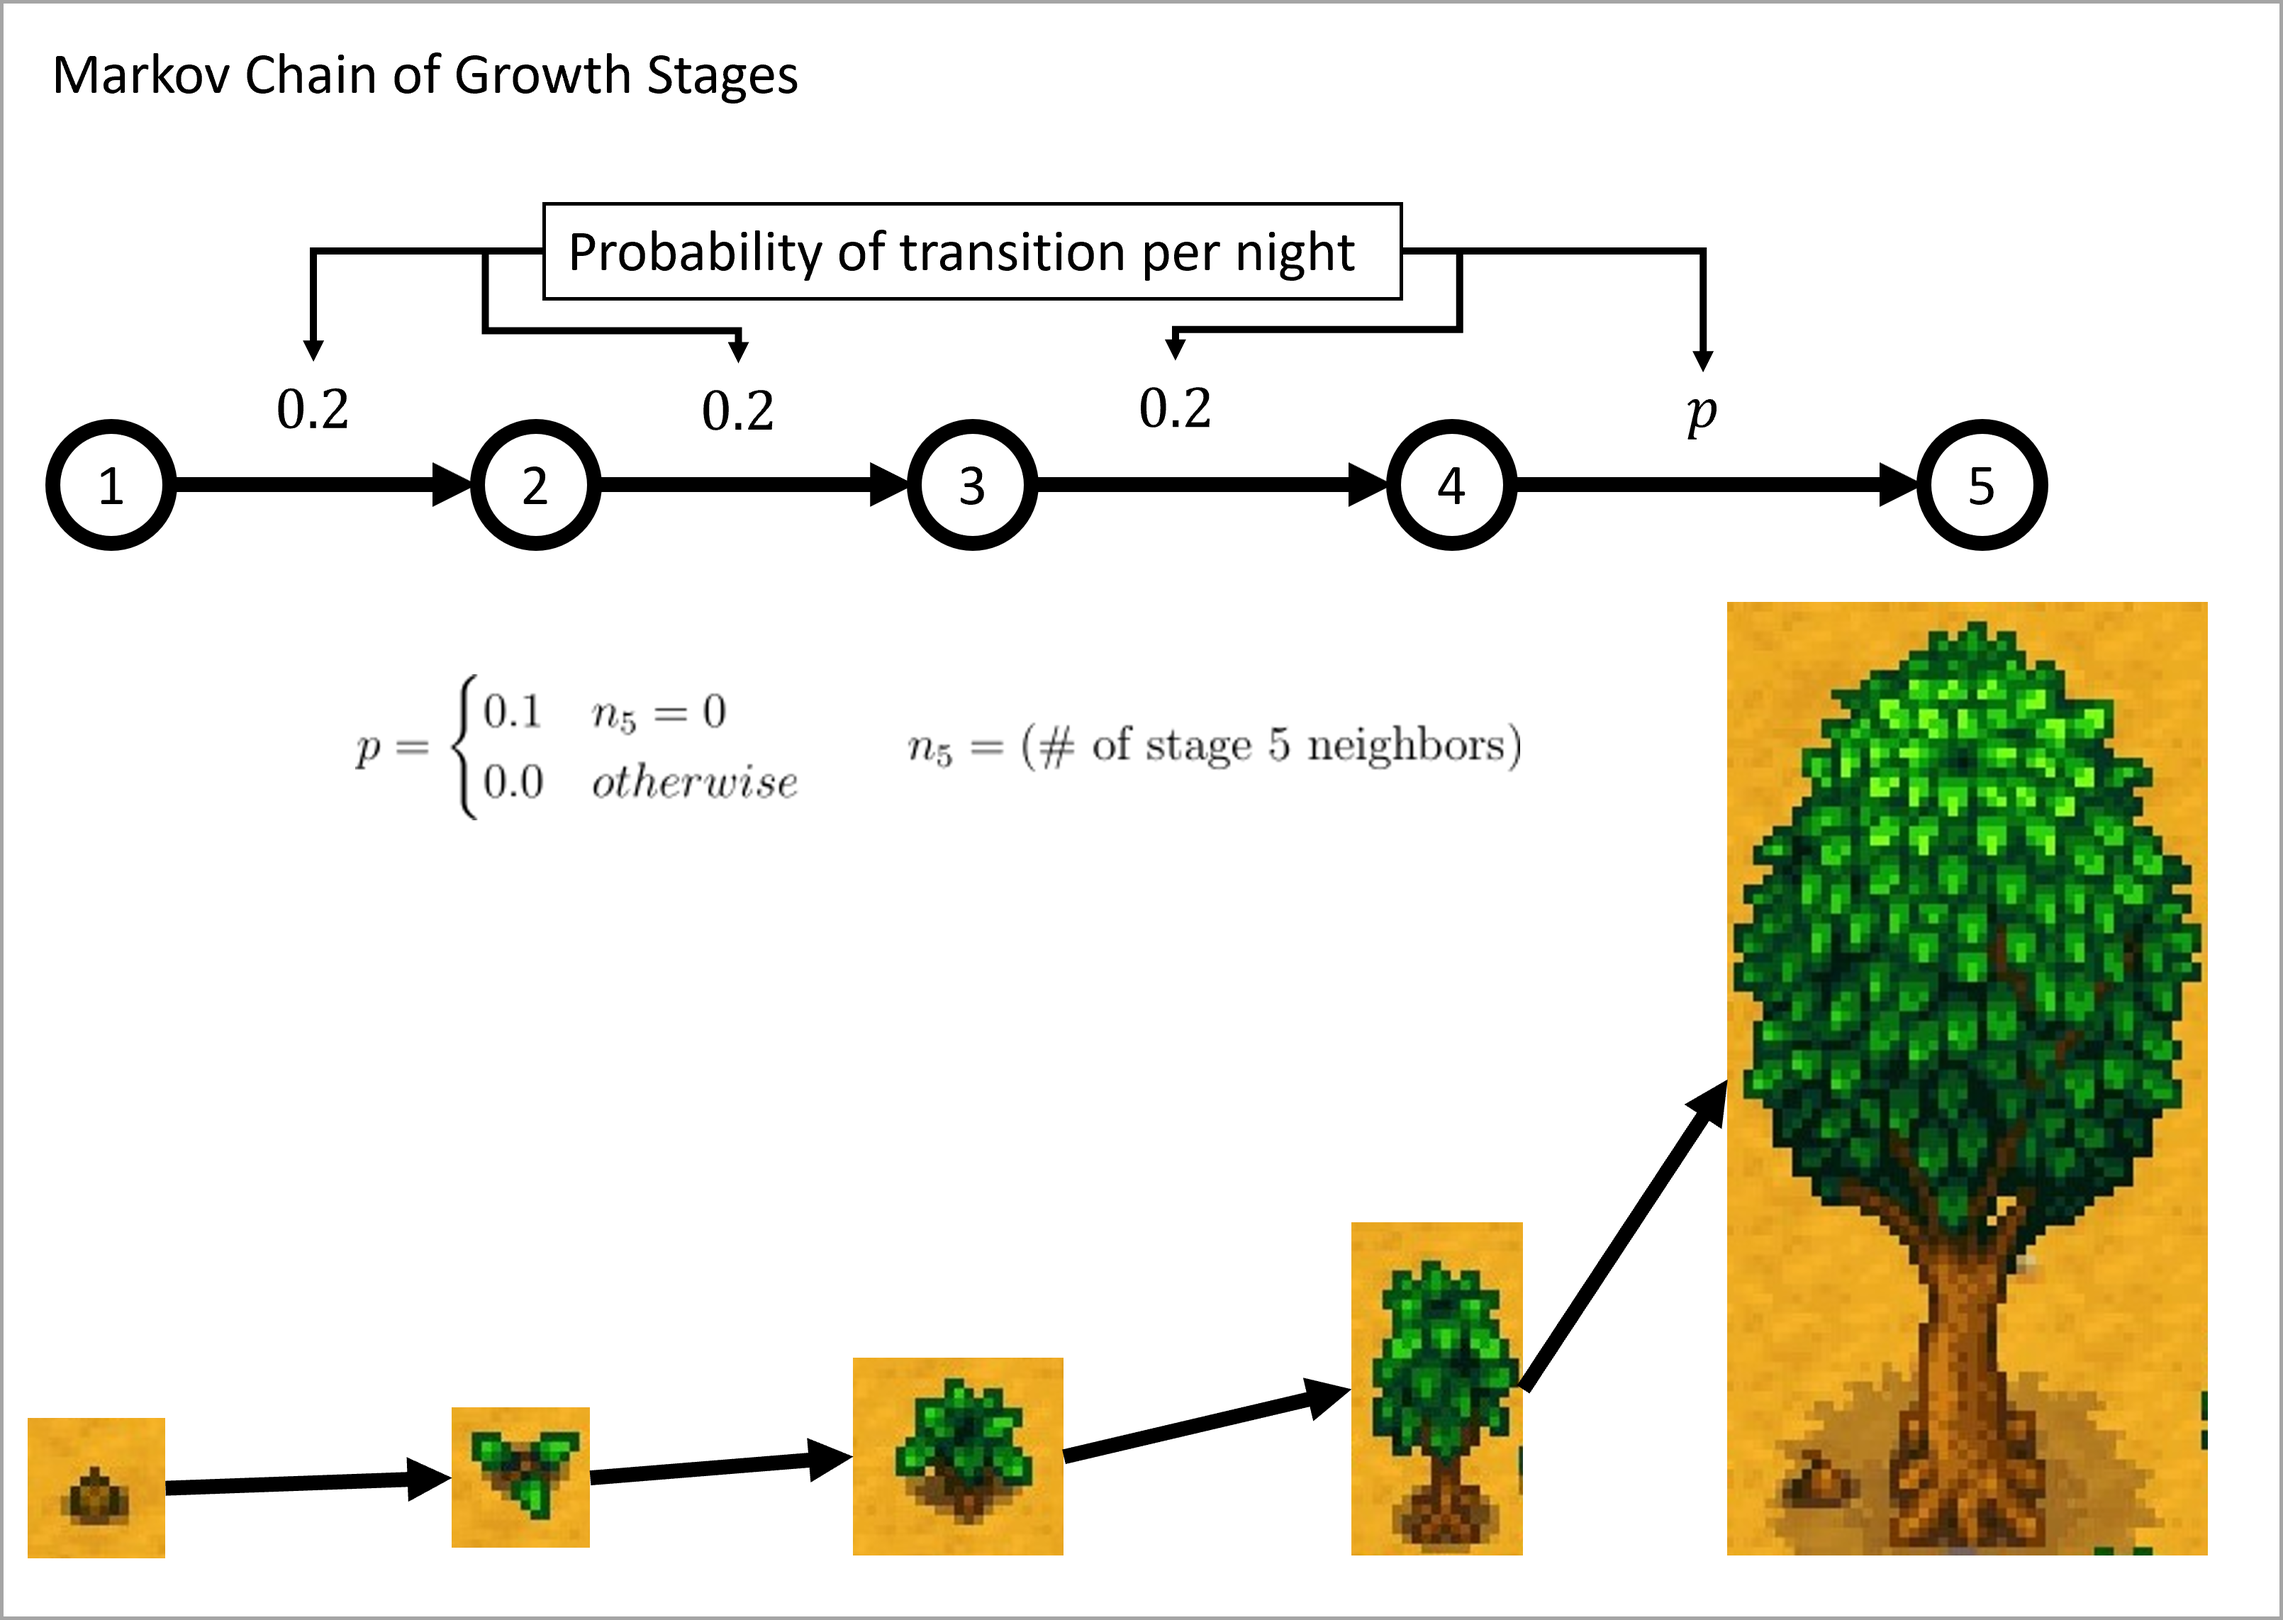
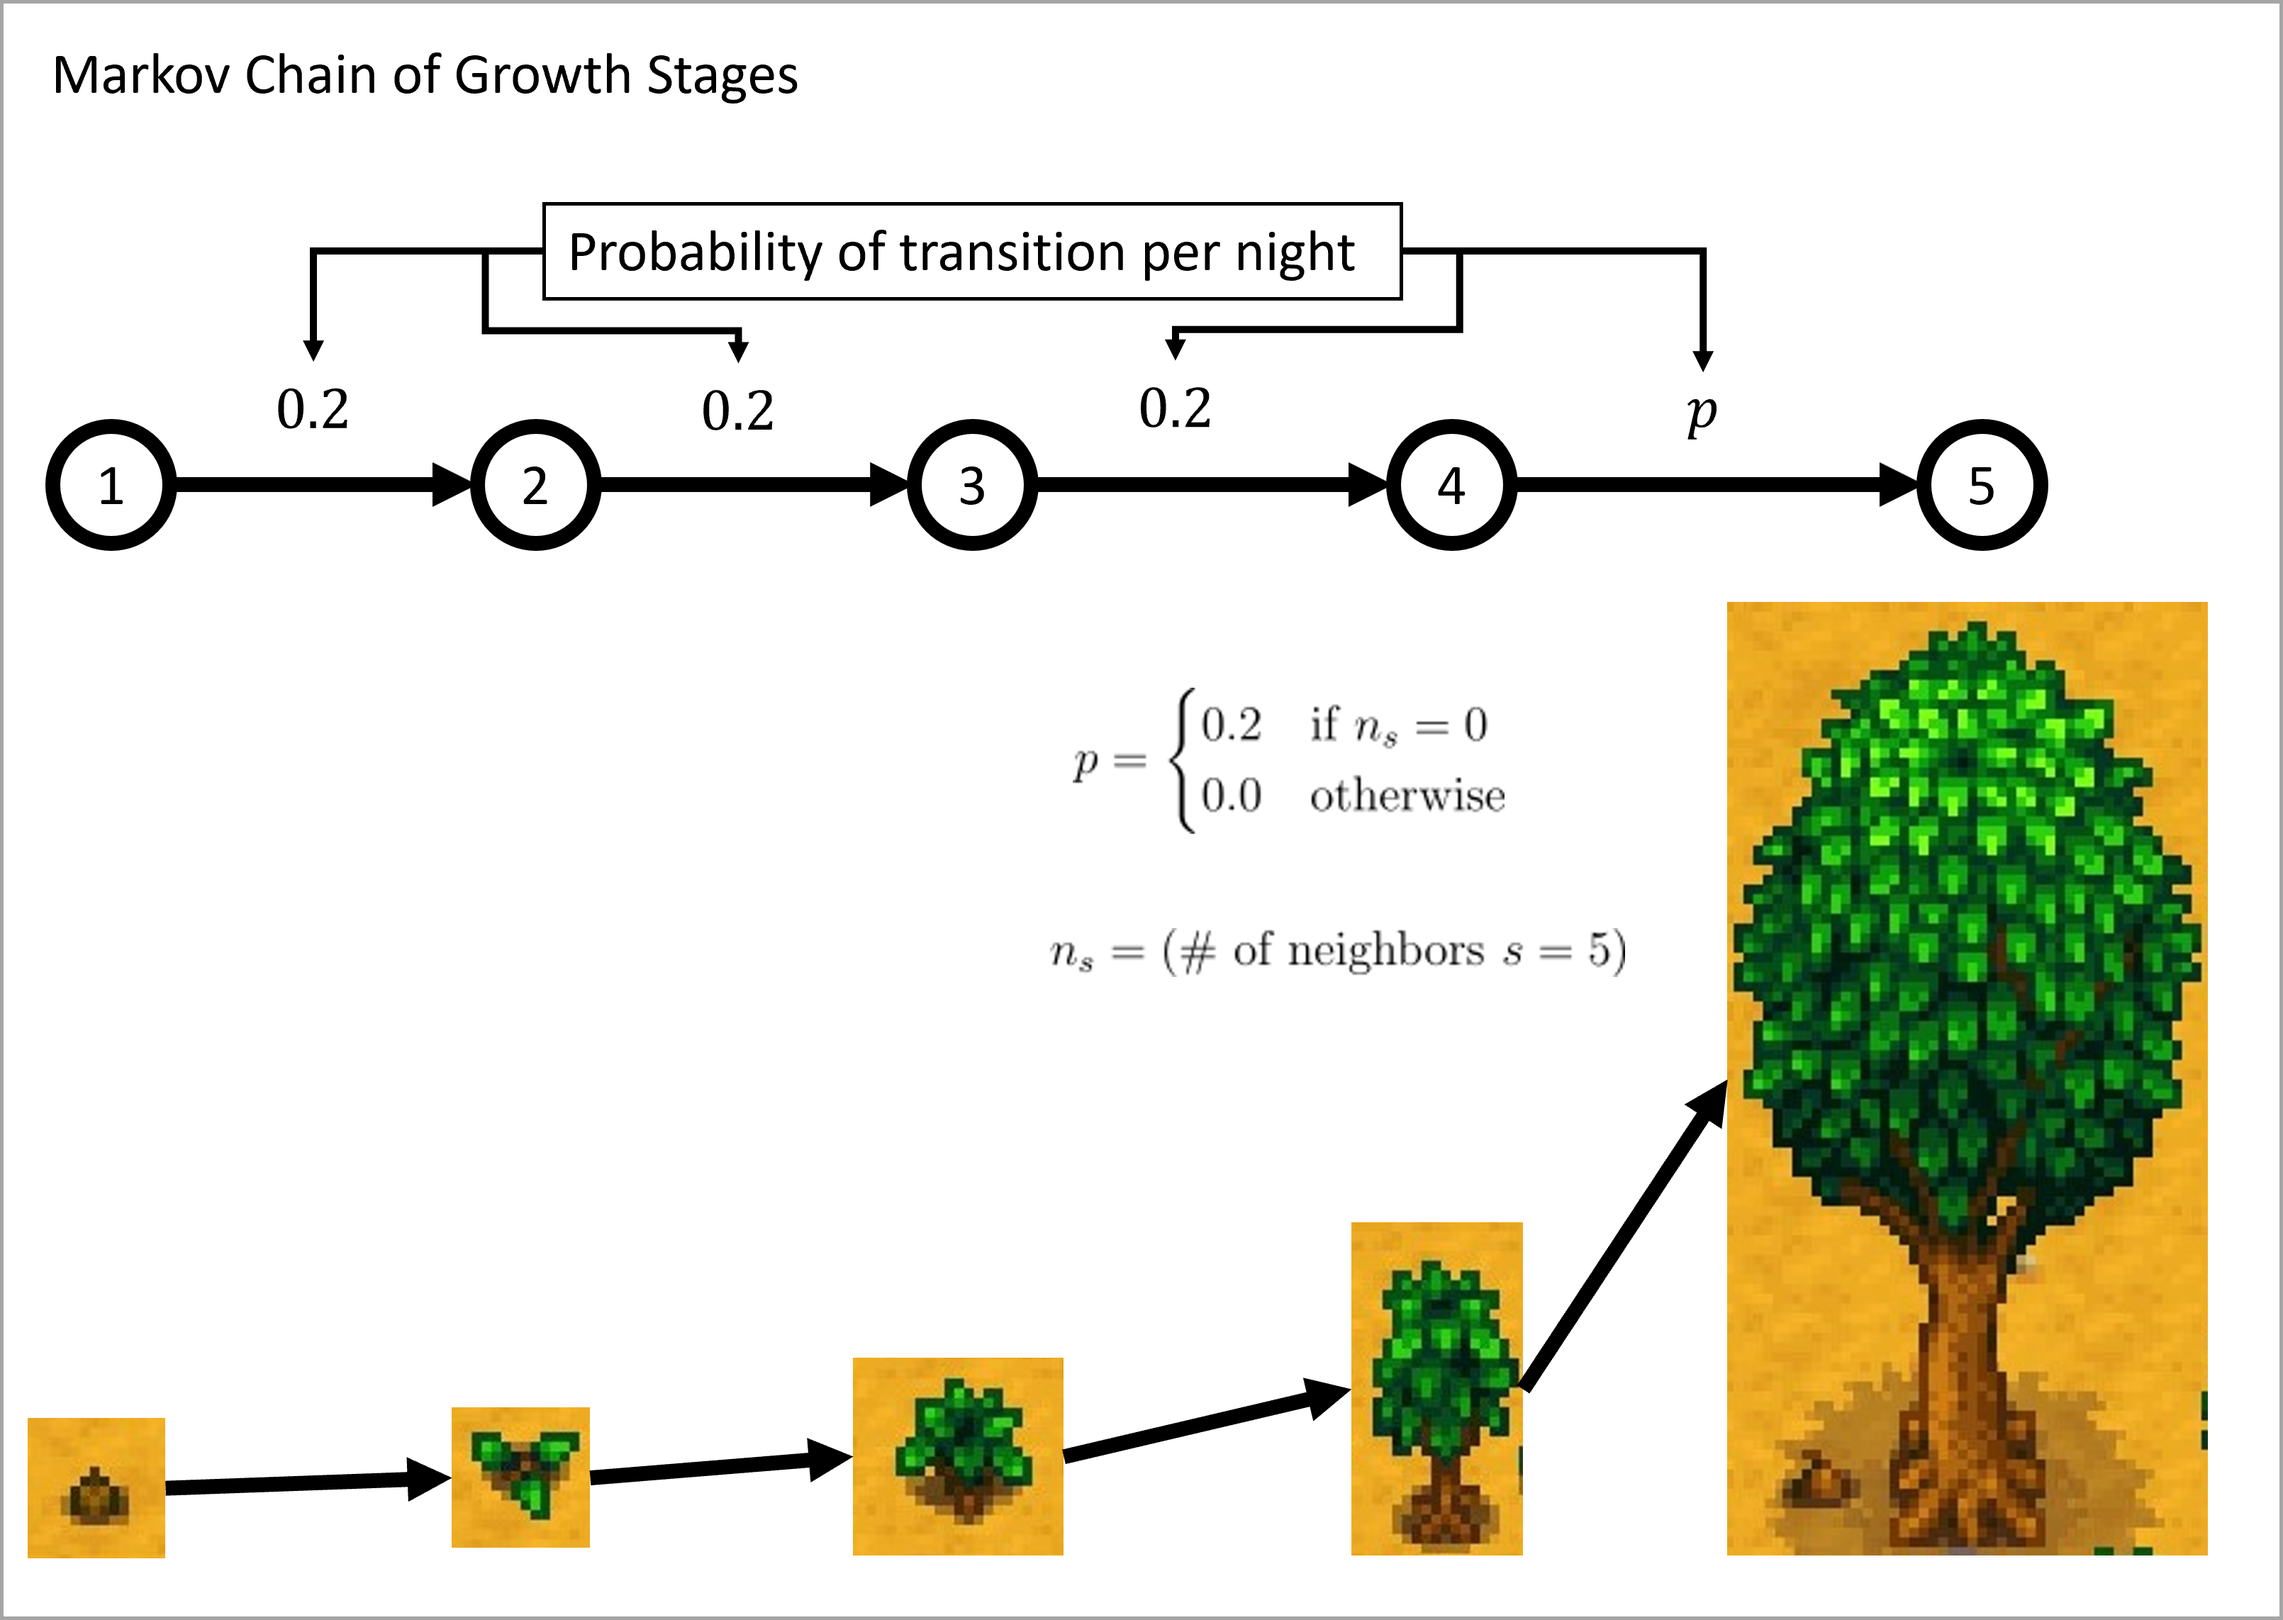
Friday morning work

diff --git a/code/scripts/growth_time_markov_chain.py b/code/scripts/growth_time_markov_chain.py
@@ -1,0 +1,82 @@
+from webbrowser import get
+import numpy as np
+import matplotlib.pyplot as plt
+
+
+def get_transition_matrix(stages):
+    A = np.zeros((stages,stages))
+    for i in range(stages - 1):
+        A[i+1,i] = 0.2
+        A[i,i] = 0.8
+    A[-1,-1] = 1.
+    return A
+
+
+def iterate(num, transition_matrix):
+    A = transition_matrix.copy()
+    prob = np.empty((num, transition_matrix.shape[0]))
+    prob[0,0] = 1.
+    prob[0,1:] =0.
+
+    for n in range(num-2):
+        
+        prob[n+1] = A[:,0]
+        np.dot(transition_matrix, A, out= A) 
+         
+
+    prob[-1] = A[:,0]
+    return prob
+
+def calculate_pmf(num, transition_matrix):
+    pmf = np.empty(num)
+    for k in range(num):
+        pmf[k] =  transition_matrix[-1,:-1] @  np.linalg.matrix_power(transition_matrix[:-1,:-1],k-1)[:,0] if k > 0 else 0.0
+    return pmf
+
+def calculate_stats(pmf,cmf):
+    out = dict()
+
+    out['mean'] = sum( n * p for n, p in enumerate(pmf))
+    out['variance'] = sum((n - out['mean'])**2 * p for n, p in enumerate(pmf))
+    out['median'] = np.argmax(cmf >= 0.5 )
+    
+    out['std'] = np.sqrt(out['variance'])
+    return out 
+
+At = get_transition_matrix(5)
+print(At)
+days = np.arange(2*28)
+prob = iterate(days.shape[0], At)
+pmf = calculate_pmf(days.shape[0], At)
+stats = calculate_stats(pmf, prob[:,-1])
+print(stats)
+
+fig, axes = plt.subplots(1,2,figsize=(4*2,3),sharex='row')
+fig.suptitle('Growing times')
+ax = axes[0]
+for n in range(5):
+    ax.plot(days,100*prob[:,n], label="$s={}$".format(n))
+
+
+ax.axvline(28,color='black',ls='--')
+
+ax.set_ylabel('Probability (%)')
+    
+
+
+ax = axes[1]
+
+ax.plot(days, 100*pmf,label='pmf')
+# ax.plot(100*np.gradient(prob[:,-1],1),label='pmf')
+
+ax.axvline(stats['mean'],label='mean',ls='--',color='C1')
+
+ax.axvline(stats['median'],label='median',ls='--',color='C3')
+
+
+for ax in axes:
+    ax.legend()
+    ax.set_xlabel('Day')
+
+fig.set_tight_layout(True)
+plt.show()

diff --git a/README.md b/README.md
@@ -62,6 +62,49 @@ In many physical systems, we wish represent to how some quantity varies in space
 
 Although these mathematical representations of the same physical systems are very different, they often serve as good approximations for one another. Sometimes by converting from one form to another, we get new insight. However, this has to be done with care, because not all cellular automata can be represented as a partial differential equation, so there might not be any conversion. But usually interesting physical systems have symmetries or other properties that make this conversion possible. For instance, cellular automata usually have translational symmetries and rotational symmetries with their grid. At large scales, these symmetries approximate the continuous symmetries of continuous space. The local transition rules of cellular automata correspond to the local rules of partial differential equations. We can also use different grids, so hexagonal grids or triangular grids are also possible for cellular automata, but more complicated to program. It turns out that the emergent properties of interesting physical systems often do not depend strongly such choices.
 
+
 ## How do trees grow? 
 
+To start thinking about transition rules, trees have two major processes here. They grow and they reproduce. In Stardew Valley, these processes occur over night while the player sleeps. Thus our transition rule is discrete time. Of these processes, growth is simpler. Note there are five growth stages. According to the [Stardew Valley wiki on trees](https://stardewvalleywiki.com/Trees#Growth_Cycle), the oak, maple, and pine trees have a 20% chance to grow per night increase in growth state, except for the transition from growth state $s=4$ to growth stage $s=5$. The transition from $4\to 5$ cannot occur for a given cell, if there is a stage 5 tree in the Moore neighborhood (the 8 currounding cells) of the cell. 
+
+The wiki says this last transition takes "twice as a long" (which should mean a 10%), however, investigating the [decompiled game code](https://github.com/veywrn/StardewValley/tree/master), the method which updates tree, the method [Tree:dayUpdate](https://github.com/veywrn/StardewValley/blob/master/StardewValley/TerrainFeatures/Tree.cs) appears to show a 20% for the last stage. We won't worry too much about that, because ultimately we want to calculate how much the overall behavior depends on such choices. Note that we will only consider the case of unfertilized trees in Stardew Valley. Because growth is random, we have a stochastic cellular automaton, with a stochastic transition rule. This makes the growth of an individual tree into a [Markov chain](https://en.wikipedia.org/wiki/Markov_chain). We can represent this diagrammatically as:
+
+
 ![markov chain for growth](./images/markov_chain_for_growth.png)
+
+
+This also makes the entire grid into a Markov chain. There exists a matrix which specifics the transition probability from any possible configuration of the grid to any other possible configuration. But the number of configurations is so large, even for small grids and this matrix is stupendous in size. For one tree species, 48 by 64 grid has on $6 ^ {48 \times 64} $ possible configurations which is on the order of $10^{2390}$. For a quick size comparison, the [age of the universe](https://en.wikipedia.org/wiki/Hubble%27s_law#Hubble_time) is estimated at only $ 4.55 \times 10 ^{17]$ *seconds* and the number of orderings of a deck of 52 playing cards is only $52! \approx 10^{68}$.   Note however that for most pairs of grids, the transition probability is zero. 
+
+For the most part, this transition rule is independent with no spatial interactions at except for the last stage. If we ignore this part, we get a transition matrix that looks like this:
+![A transition matrix](./images/transition_matrix_growth_stages.PNG)
+
+Here each entry of the matrix gives a transition probability  $A_{ij} = \Pr ( j \to i) $. If we know the initial state, we can just look at the corresponding column to get the transition probabilities. Note that the diagonals are the probability that no change occurs. Note also that the final stage is an *absorbing state*. Once a tree is mature, it stays there in this Markov chain (other processes will change that later). Using matrix powers $A^n $, we can calculate the probability of transition from a given state $j$ to any other state $i$ after $n$ transitions (or $n$ nights in game). This means that the entry $(A^n)_{51}$ is the cumulative density function $F(n) $ for the growing time, the number of days (or nights) until fully grown. The CDF $F(n)$ is the probability that after $n$ days, a tree has fully grown (neglecting any spatial effects). The probability that the growing time is exactly $k$ days is $f(k) = F(k) - F(k-1)$ and from this probability mass function $f$, it is possible to calculate the mean growing time. We can use the CDF to calculate the median growing time.
+
+
+![Growing times](./images/growing_times.png)
+
+All in all, it takes around a month for a tree to grow from a planted seed to full maturity. Note the tree fertilizer shortens this to 4 days exactly. 
+
+
+
+
+## How do trees reproduce? 
+
+```cs
+// check if stage s >= 5  and roll for reproduction with 15% chance
+if ((int)growthStage >= 5 && environment is Farm && Game1.random.NextDouble() < 0.15)
+			{   
+                // randomly select coordinates in 7 x 7 box centered at tree location
+				int xCoord = Game1.random.Next(-3, 4) + (int)tileLocation.X;
+				int yCoord = Game1.random.Next(-3, 4) + (int)tileLocation.Y;
+				Vector2 location = new Vector2(xCoord, yCoord);
+                
+                // check if selected coordinates are a valid loction 
+				string noSpawn = environment.doesTileHaveProperty(xCoord, yCoord, "NoSpawn", "Back");
+				if ((noSpawn == null || (!noSpawn.Equals("Tree") && !noSpawn.Equals("All") && !noSpawn.Equals("True"))) && environment.isTileLocationOpen(new Location(xCoord, yCoord)) && !environment.isTileOccupied(location) && environment.doesTileHaveProperty(xCoord, yCoord, "Water", "Back") == null && environment.isTileOnMap(location))
+				{
+                    // add tree at new location
+					environment.terrainFeatures.Add(location, new Tree(treeType, 0));
+				}
+			}
+```
